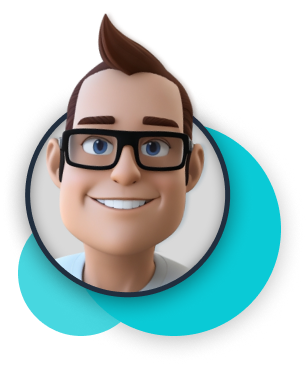
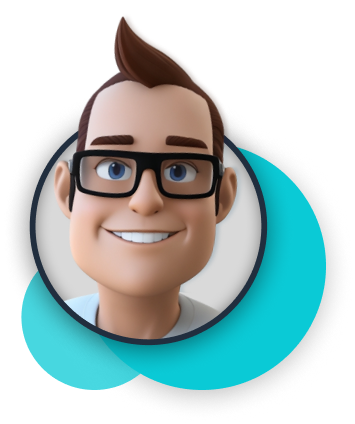
Updated header and hero section for better spaceing

diff --git a/src/sass/styles.scss b/src/sass/styles.scss
@@ -59,6 +59,7 @@ $primary-Dark-light: #212E3E;
 $secondary-dark:#101824;
 $tertiary-color:#145A5E;
 $accent: #0ACAD6;
+$accent-2:rgba(10, 202, 214, 0.5);
 $white: #fff;
 $text-Light: rgb(255 255 255 / .8);
 $text-Dark:#141C20;
@@ -93,7 +94,9 @@ body{
   width:fit-content;
   cursor: pointer;
 
-  
+  &:hover {
+    background-color:$accent-2;
+  }
 
   
 }
@@ -102,6 +105,10 @@ body{
     border:2px solid $accent;
     border-radius:.6rem;
     padding:.6rem 1.5rem;
+
+    &:hover {
+      border-color: rgba(10, 202, 214, 0.5);
+    }
 }
 
 header {
@@ -179,7 +186,7 @@ header {
 #hero {
   display:flex;
   justify-content: center;
-  height:80vh;
+  max-height:550px;
   
 
   .container {
@@ -209,6 +216,14 @@ header {
 
 #work {
   background-color:$secondary-dark;
+  display:flex;
+  justify-content: center;
+
+
+  .container {
+
+   width:1040px;
+  }
 }
 
 

diff --git a/src/index.html b/src/index.html
@@ -42,7 +42,7 @@
       <div class="hero-left">
         <h1 class="textWhite">Hi,</br>
         I'm <span class="textAccent">Adric,</span></br>
-        a <span class="typing textAccent">Product Designer</span></h1>
+        a <span class="typing textAccent"></span></h1>
         <p class="tagLine textLight">Dream. Design. Build</p>
         <div class="btn">My Work</div>
       </div>
@@ -53,7 +53,7 @@
     </div>
   </section>
   <section id="work">
-    <container>
+    <div class="container">
       <div class="Wcontainer">
         <div class="tcontainer">
                 <h2 class="big-title-light">Work</h2>
@@ -63,7 +63,7 @@
 
     <p> This is a paragrphand;fhdjsgasfd.</p>
 
-    </container>
+    </div>
   </section>
 </body>
 </html>

diff --git a/src/JS/script.js b/src/JS/script.js
@@ -1,8 +1,8 @@
 $(document).ready(function(){
     $(".typing").typed({
-        strings:["UX/UI Designer.","Product Designer.","Web Designer."],
+        strings:["Product Designer.","UX/UI Designer.","Web Designer."],
         typeSpeed:50,
-        startDelay:0,
+        startDelay:750,
         backSpeed: 35,
         backDelay: 450,
         loop: true,
